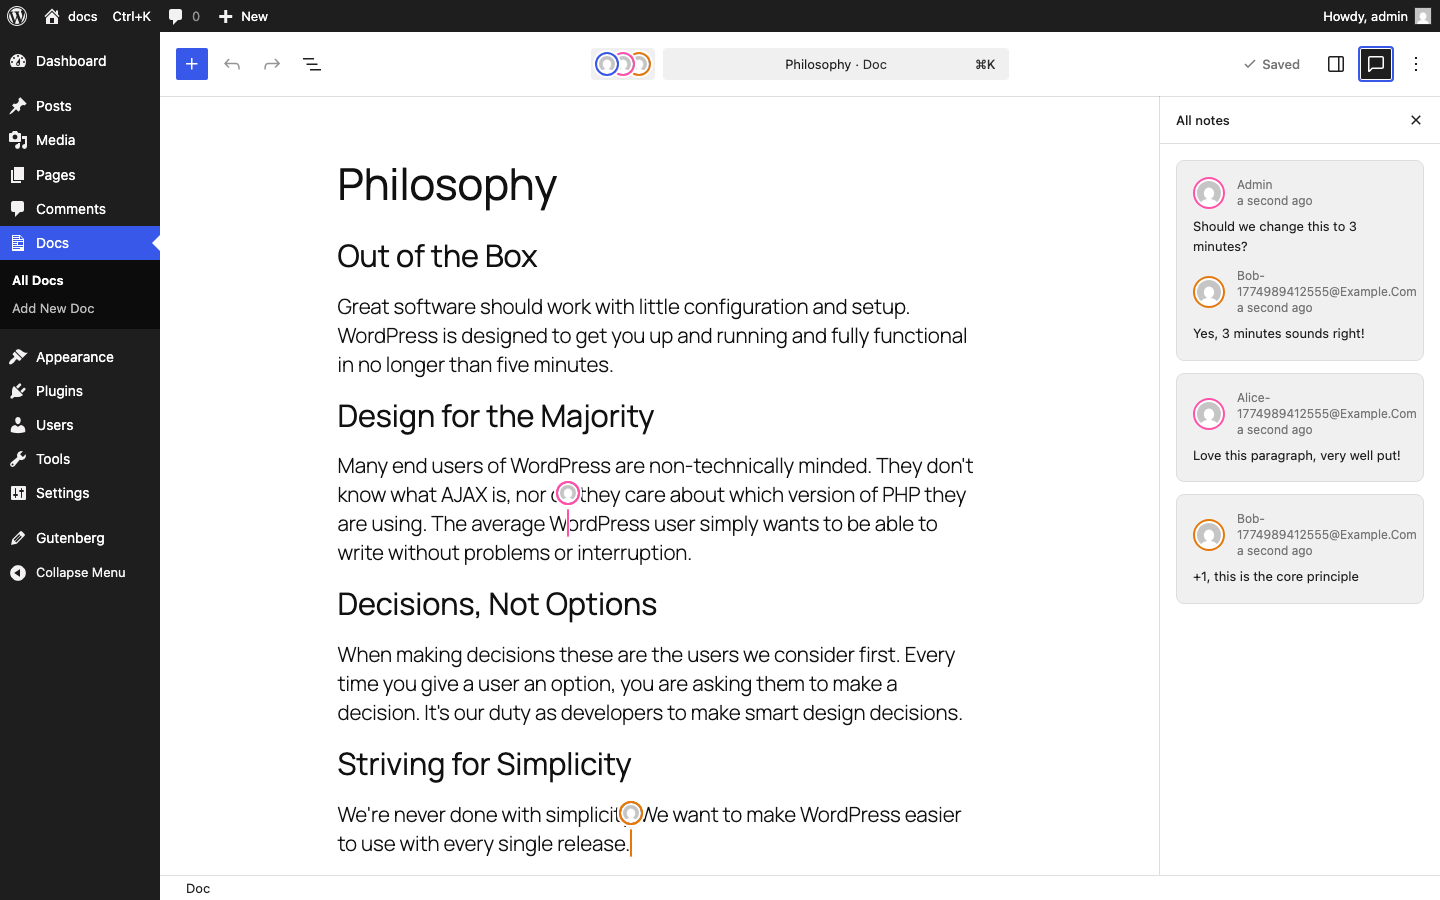
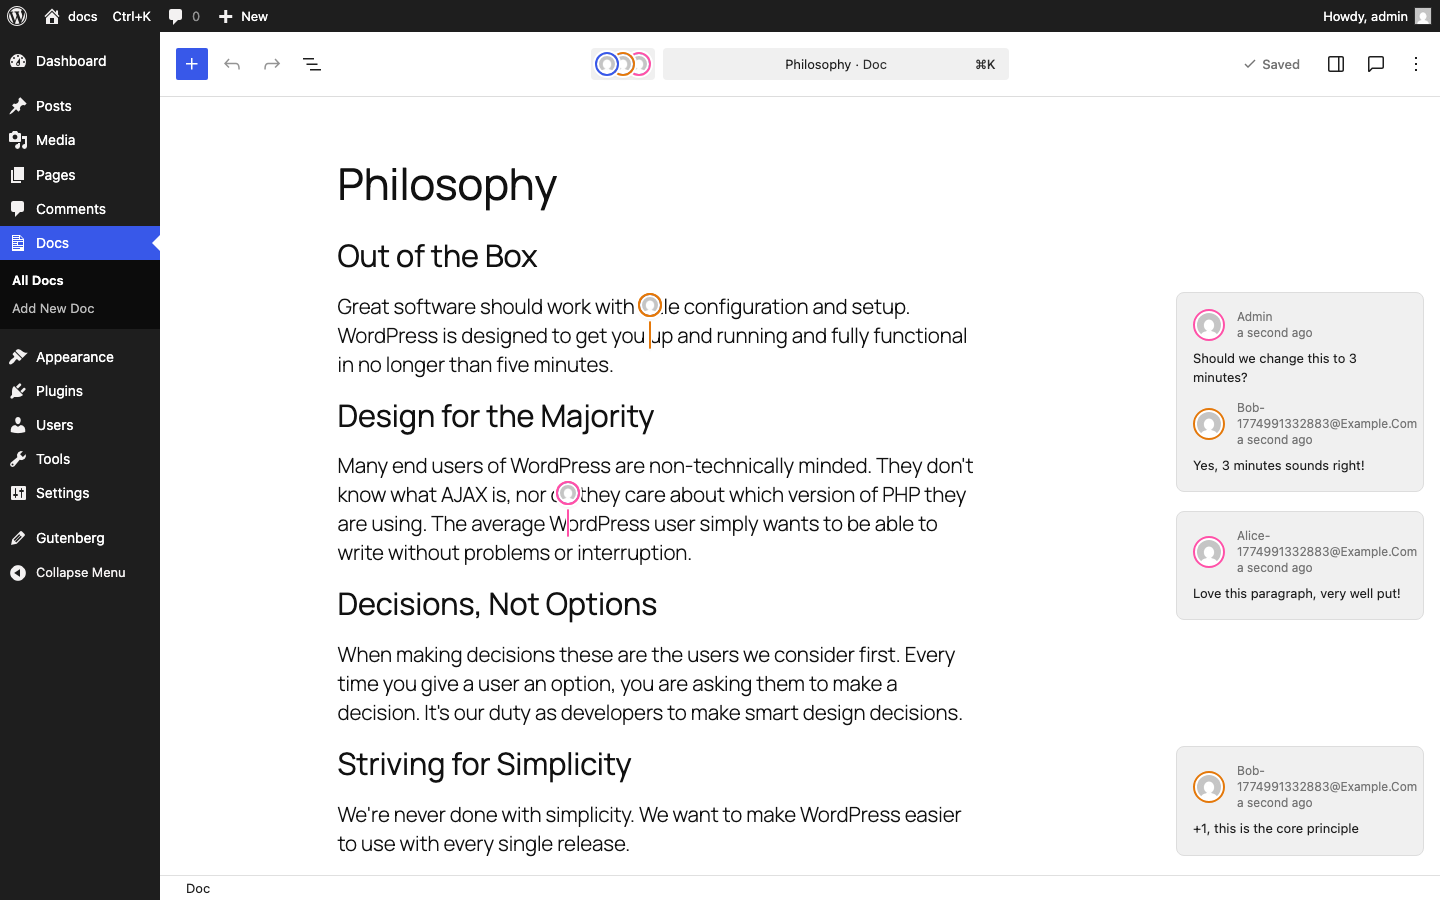
Show notes inline aligned to blocks in screenshot
Close the settings sidebar after reload so notes render as floating
cards next to their blocks instead of in a sidebar list. Move Bob's
third note to "Striving for Simplicity" so it's not cut off.

diff --git a/tests/e2e/block-notes.spec.js b/tests/e2e/block-notes.spec.js
@@ -205,7 +205,7 @@ test.describe( 'Block notes', () => {
 		const emails = await requestUtils.rest( { path: '/docs-test/v1/emails' } );
 		const notes = [
 			{ block: 'non-technically minded', text: 'Love this paragraph, very well put!' },
-			{ block: 'never done with simplicity', text: '+1, this is the core principle' },
+			{ block: 'Striving for Simplicity', text: '+1, this is the core principle' },
 		];
 
 		const contexts = [];
@@ -278,16 +278,13 @@ test.describe( 'Block notes', () => {
 		await page.reload();
 		await expect( canvas.getByText( 'Great software should work' ) ).toBeVisible();
 
-		// Open the collab sidebar to see all notes.
-		await page.getByRole( 'button', { name: /notes/i } )
-			.or( page.getByRole( 'button', { name: /comments/i } ) )
+		// Close the settings sidebar so notes render inline alongside blocks.
+		await page.getByRole( 'button', { name: /Close Settings/i } )
+			.or( page.getByRole( 'button', { name: /Close/i } ).locator( 'visible=true' ).first() )
 			.first().click().catch( () => {} );
 
-		// Verify all notes and reply are visible.
+		// Verify at least one note is visible inline (aligned to its block).
 		await expect( page.getByText( 'Should we change this to 3 minutes?' ) ).toBeVisible( { timeout: 15000 } );
-		await expect( page.getByText( 'Yes, 3 minutes sounds right!' ) ).toBeVisible();
-		await expect( page.getByText( 'Love this paragraph' ) ).toBeVisible();
-		await expect( page.getByText( 'core principle' ) ).toBeVisible();
 
 		if ( process.env.SCREENSHOTS ) {
 			// Remove snackbars.
